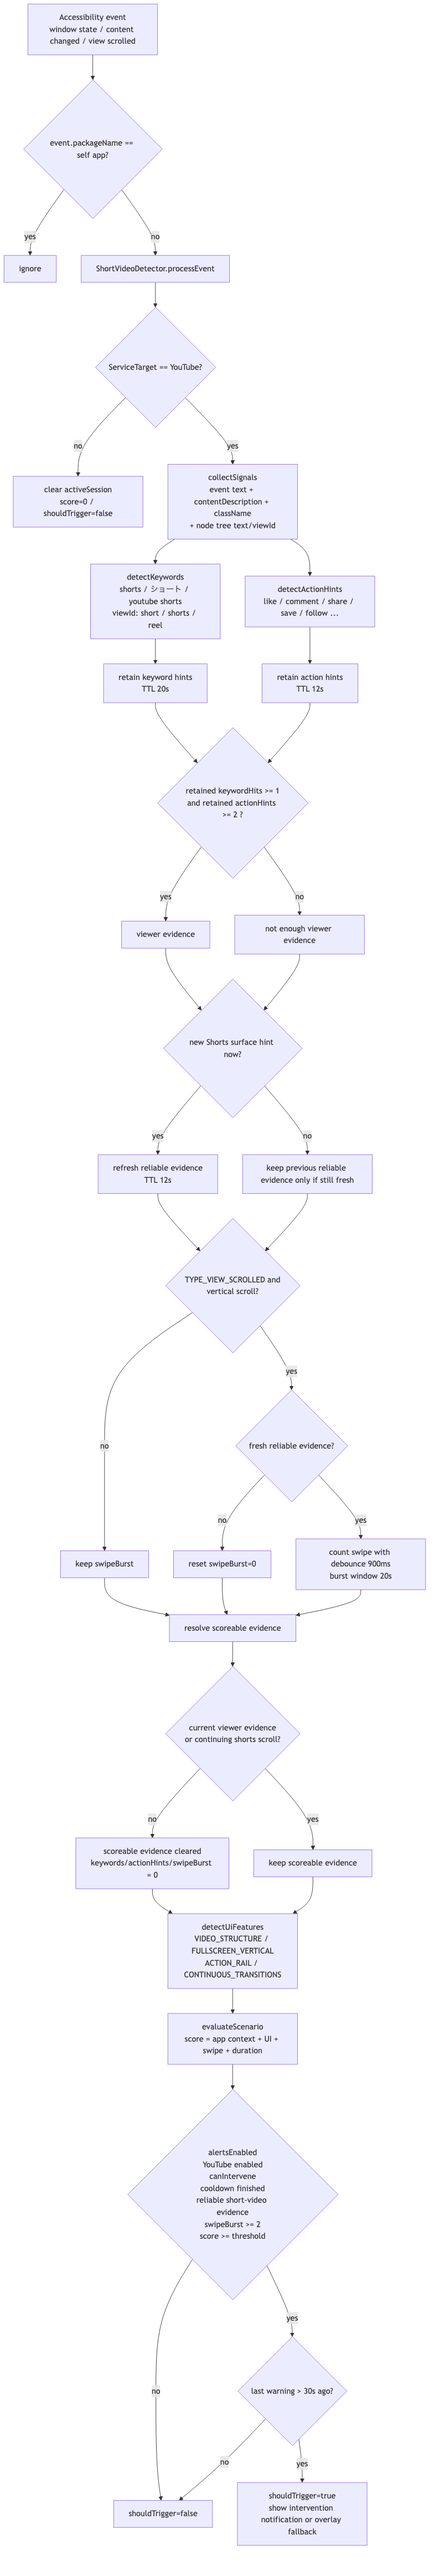
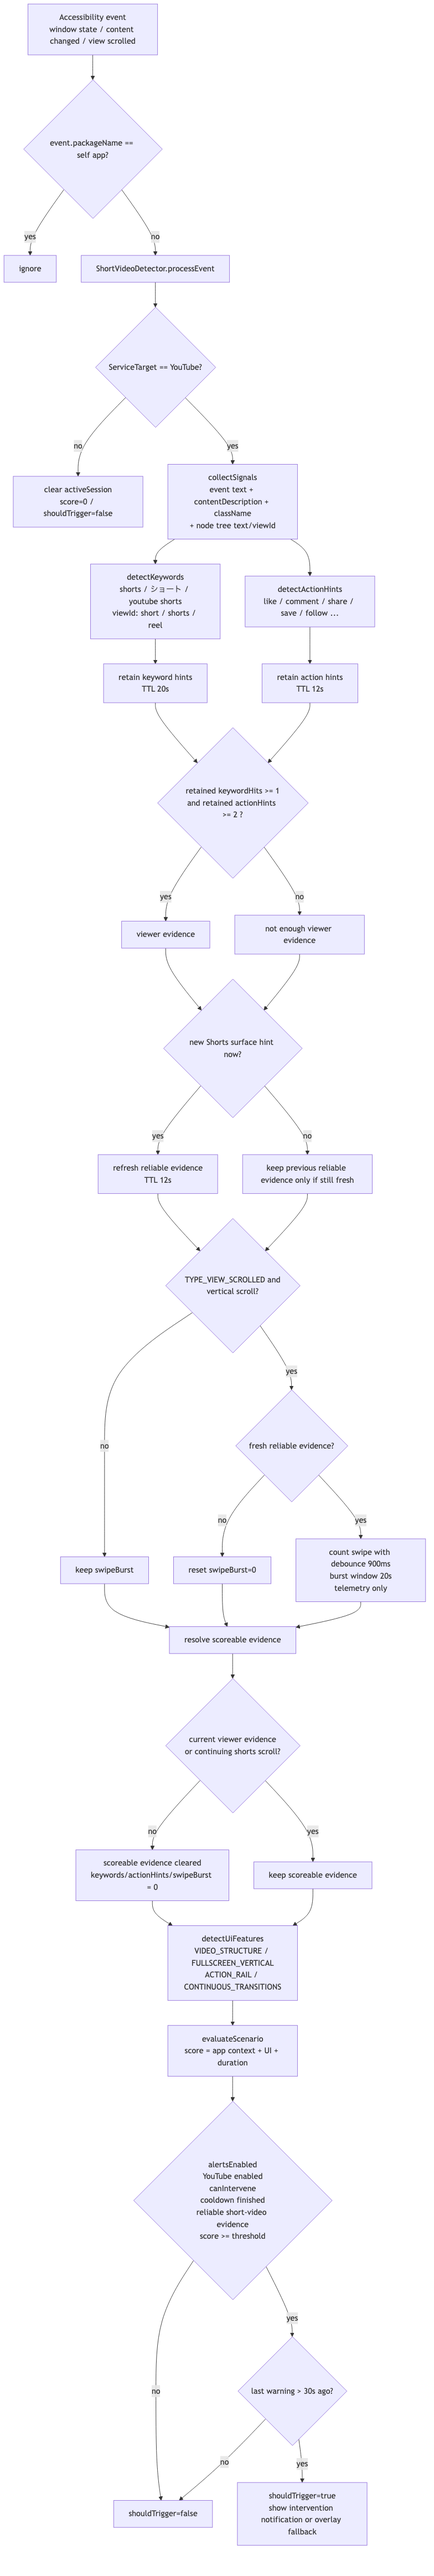
DetectionLogicDiagramを更新し、ShortVideoDetectorのスコア計算からスワイプバーストの依存性を削除。ユニットテストを修正し、短い動画構造がスワイプなしでトリガーされる条件を確認。テストケースの内容を明確化し、関連する条件を整理。

diff --git a/app/src/test/java/dev/shortblocker/app/domain/ShortVideoDetectorTest.kt b/app/src/test/java/dev/shortblocker/app/domain/ShortVideoDetectorTest.kt
@@ -43,7 +43,7 @@ class ShortVideoDetectorTest {
             now = 1_000L,
         )
 
-        assertTrue(decision.snapshot.score >= settings.threshold)
+        assertTrue(decision.snapshot.swipeBurst >= 2)
         assertFalse(decision.shouldTrigger)
     }
 
@@ -70,30 +70,29 @@ class ShortVideoDetectorTest {
             now = 1_000L,
         )
 
-        assertTrue(decision.snapshot.score >= settings.threshold)
+        assertTrue(decision.snapshot.keywordHits.isNotEmpty())
         assertFalse(decision.shouldTrigger)
     }
 
     @Test
-    fun shortVideoStructureDoesNotTriggerBeforeSecondShortsSwipe() {
+    fun shortVideoStructureCanTriggerWithoutShortsSwipeRequirement() {
         val decision = detector.evaluateScenario(
             scenario = DetectionScenario(
                 appName = "YouTube",
                 packageName = ServiceTarget.YOUTUBE.packageName,
                 timeBand = TimeBand.LATE_NIGHT,
-                sessionMinutes = 12,
+                sessionMinutes = 20,
                 relaunchCount = 0,
-                swipeBurst = 1,
-                dwellSeconds = 12,
+                swipeBurst = 0,
+                dwellSeconds = 30,
                 reentryAfterWarning = false,
                 keywords = listOf("Shorts"),
                 uiFeatures = listOf(
                     UiFeature.FULLSCREEN_VERTICAL,
                     UiFeature.ACTION_RAIL,
                     UiFeature.VIDEO_STRUCTURE,
-                    UiFeature.CONTINUOUS_TRANSITIONS,
                 ),
-                note = "Shorts viewer before enough page swipes",
+                note = "Shorts viewer with structural evidence but no swipe dependency",
             ),
             settings = settings,
             cooldownUntilEpochMillis = 0L,
@@ -103,17 +102,17 @@ class ShortVideoDetectorTest {
         )
 
         assertTrue(decision.snapshot.score >= settings.threshold)
-        assertFalse(decision.shouldTrigger)
+        assertTrue(decision.shouldTrigger)
     }
 
     @Test
-    fun shortVideoStructureTriggersAfterSecondShortsSwipe() {
+    fun shortVideoStructureAndRelaunchStillTriggerWithoutSwipeScore() {
         val decision = detector.evaluateScenario(
             scenario = DetectionScenario(
                 appName = "YouTube",
                 packageName = ServiceTarget.YOUTUBE.packageName,
                 timeBand = TimeBand.LATE_NIGHT,
-                sessionMinutes = 4,
+                sessionMinutes = 9,
                 relaunchCount = 2,
                 swipeBurst = 2,
                 dwellSeconds = 12,
@@ -125,7 +124,7 @@ class ShortVideoDetectorTest {
                     UiFeature.VIDEO_STRUCTURE,
                     UiFeature.CONTINUOUS_TRANSITIONS,
                 ),
-                note = "Shorts viewer with action rail and repeated vertical transitions",
+                note = "Shorts viewer with action rail and relaunch context",
             ),
             settings = settings,
             cooldownUntilEpochMillis = 0L,
@@ -334,22 +333,15 @@ class ShortVideoDetectorTest {
             observedEvent(texts = setOf("Shorts", "Like", "Share")),
             settings = settings,
             permissions = permissions,
-            cooldownUntilEpochMillis = base + 30_000L,
+            cooldownUntilEpochMillis = base + 30 * 60_000L,
             now = base,
         )
-        detector.processObservedEvent(
-            observedScrollEvent(now = base + 1_000L),
-            settings = settings,
-            permissions = permissions,
-            cooldownUntilEpochMillis = base + 30_000L,
-            now = base + 1_000L,
-        )
         val decision = detector.processObservedEvent(
-            observedScrollEvent(now = base + 2_500L),
+            observedEvent(texts = setOf("Shorts", "Like", "Share")),
             settings = settings,
             permissions = permissions,
-            cooldownUntilEpochMillis = base + 30_000L,
-            now = base + 2_500L,
+            cooldownUntilEpochMillis = base + 30 * 60_000L,
+            now = base + 20 * 60_000L,
         )!!
 
         assertTrue(decision.snapshot.score >= settings.threshold)
@@ -366,26 +358,19 @@ class ShortVideoDetectorTest {
             cooldownUntilEpochMillis = 0L,
             now = base,
         )
-        detector.processObservedEvent(
-            observedScrollEvent(now = base + 1_000L),
-            settings = settings,
-            permissions = permissions,
-            cooldownUntilEpochMillis = 0L,
-            now = base + 1_000L,
-        )
         val firstTrigger = detector.processObservedEvent(
-            observedScrollEvent(now = base + 2_500L),
+            observedEvent(texts = setOf("Shorts", "Like", "Share")),
             settings = settings,
             permissions = permissions,
             cooldownUntilEpochMillis = 0L,
-            now = base + 2_500L,
+            now = base + 20 * 60_000L,
         )!!
         val secondDecision = detector.processObservedEvent(
-            observedScrollEvent(now = base + 4_000L),
+            observedEvent(texts = setOf("Shorts", "Like", "Share")),
             settings = settings,
             permissions = permissions,
             cooldownUntilEpochMillis = 0L,
-            now = base + 4_000L,
+            now = base + 20 * 60_000L + 1_000L,
         )!!
 
         assertTrue(firstTrigger.shouldTrigger)
@@ -409,19 +394,12 @@ class ShortVideoDetectorTest {
             cooldownUntilEpochMillis = 0L,
             now = base,
         )
-        detector.processObservedEvent(
-            observedScrollEvent(now = base + 1_000L),
-            settings = settings,
-            permissions = limitedPermissions,
-            cooldownUntilEpochMillis = 0L,
-            now = base + 1_000L,
-        )
         val decision = detector.processObservedEvent(
-            observedScrollEvent(now = base + 2_500L),
+            observedEvent(texts = setOf("Shorts", "Like", "Share")),
             settings = settings,
             permissions = limitedPermissions,
             cooldownUntilEpochMillis = 0L,
-            now = base + 2_500L,
+            now = base + 20 * 60_000L,
         )!!
 
         assertTrue(decision.snapshot.score >= settings.threshold)

diff --git a/app/src/main/java/dev/shortblocker/app/domain/ShortVideoDetector.kt b/app/src/main/java/dev/shortblocker/app/domain/ShortVideoDetector.kt
@@ -134,12 +134,7 @@ class ShortVideoDetector {
             scenario.keywords.size * 6 +
                 (if (UiFeature.FULLSCREEN_VERTICAL in scenario.uiFeatures) 8 else 0) +
                 (if (UiFeature.ACTION_RAIL in scenario.uiFeatures) 7 else 0) +
-                (if (UiFeature.VIDEO_STRUCTURE in scenario.uiFeatures) 8 else 0) +
-                (if (UiFeature.CONTINUOUS_TRANSITIONS in scenario.uiFeatures) 6 else 0),
-        )
-        val repeatedVerticalNavigation = min(
-            20,
-            scenario.swipeBurst * 4 + if (scenario.reentryAfterWarning) 4 else 0,
+                (if (UiFeature.VIDEO_STRUCTURE in scenario.uiFeatures) 8 else 0),
         )
         val sessionDuration = min(
             15,
@@ -147,7 +142,7 @@ class ShortVideoDetector {
         )
         val total = min(
             100,
-            targetAppContext + shortsLikeUi + repeatedVerticalNavigation + sessionDuration,
+            targetAppContext + shortsLikeUi + sessionDuration,
         )
         val warningLevel = warningLevelFromScore(total)
         val dialogue = dialogueFor(
@@ -167,12 +162,6 @@ class ShortVideoDetector {
                 value = shortsLikeUi,
                 max = 35,
                 detail = "キーワード ${scenario.keywords.size}件 / UI特徴 ${scenario.uiFeatures.size}件",
-            ),
-            DetectionBreakdown(
-                label = "Repeated Vertical Navigation",
-                value = repeatedVerticalNavigation,
-                max = 20,
-                detail = "縦スワイプ ${scenario.swipeBurst}回 / 警告後再突入 ${if (scenario.reentryAfterWarning) "あり" else "なし"}",
             ),
             DetectionBreakdown(
                 label = "Session Duration",
@@ -199,13 +188,11 @@ class ShortVideoDetector {
         )
         val permissionsReady = !requirePermissions || permissions.canIntervene
         val reliableShortVideoEvidence = hasReliableShortVideoEvidence(scenario)
-        val interactionEvidence = scenario.swipeBurst >= REQUIRED_SHORTS_SWIPES
         val shouldTrigger = settings.alertsEnabled &&
             youtubeRuntimeTarget &&
             permissionsReady &&
             now >= cooldownUntilEpochMillis &&
             reliableShortVideoEvidence &&
-            interactionEvidence &&
             total >= settings.threshold
 
         return DetectionDecision(snapshot = snapshot, shouldTrigger = shouldTrigger)
@@ -518,7 +505,7 @@ class ShortVideoDetector {
         val hasRepeatedVerticalNavigation = swipeBurst >= REQUIRED_SHORTS_SWIPES
         val hasShortVideoStructure = target == ServiceTarget.YOUTUBE &&
             hasShortSurfaceHint &&
-            (hasActionRail || hasRepeatedVerticalNavigation)
+            hasActionRail
 
         return buildList {
             if (hasShortVideoStructure) {
@@ -527,7 +514,7 @@ class ShortVideoDetector {
             if (hasShortVideoStructure && hasActionRail) {
                 add(UiFeature.FULLSCREEN_VERTICAL)
             }
-            if (hasActionRail && (hasShortSurfaceHint || hasRepeatedVerticalNavigation)) {
+            if (hasActionRail && hasShortSurfaceHint) {
                 add(UiFeature.ACTION_RAIL)
             }
             if (hasRepeatedVerticalNavigation && (hasShortSurfaceHint || hasActionRail)) {

diff --git a/DetectionLogicDiagram.md b/DetectionLogicDiagram.md
@@ -35,7 +35,7 @@ flowchart TD
     Q -- no --> R[keep swipeBurst]
     Q -- yes --> S{fresh reliable evidence?}
     S -- no --> T[reset swipeBurst=0]
-    S -- yes --> U[count swipe with debounce 900ms<br/>burst window 20s]
+    S -- yes --> U[count swipe with debounce 900ms<br/>burst window 20s<br/>telemetry only]
 
     R --> V[resolve scoreable evidence]
     T --> V
@@ -48,8 +48,8 @@ flowchart TD
     X --> Z[detectUiFeatures]
     Y --> Z[detectUiFeatures<br/>VIDEO_STRUCTURE / FULLSCREEN_VERTICAL<br/>ACTION_RAIL / CONTINUOUS_TRANSITIONS]
 
-    Z --> AA[evaluateScenario<br/>score = app context + UI + swipe + duration]
-    AA --> AB{alertsEnabled<br/>YouTube enabled<br/>canIntervene<br/>cooldown finished<br/>reliable short-video evidence<br/>swipeBurst >= 2<br/>score >= threshold}
+    Z --> AA[evaluateScenario<br/>score = app context + UI + duration]
+    AA --> AB{alertsEnabled<br/>YouTube enabled<br/>canIntervene<br/>cooldown finished<br/>reliable short-video evidence<br/>score >= threshold}
 
     AB -- no --> Z2[shouldTrigger=false]
     AB -- yes --> AC{last warning > 30s ago?}
@@ -62,7 +62,7 @@ flowchart TD
 | Item | Current value | Meaning |
 | --- | --- | --- |
 | `threshold` | `62` | 通知候補になるスコア閾値 |
-| `REQUIRED_SHORTS_SWIPES` | `2` | 発火に必要な Shorts 縦スワイプ数 |
+| `REQUIRED_SHORTS_SWIPES` | `2` | `CONTINUOUS_TRANSITIONS` 表示用の目安 |
 | `MIN_ACTION_RAIL_HINTS` | `2` | viewer evidence に必要な action hint 数 |
 | `SHORTS_KEYWORD_TTL_MS` | `20_000` | Shorts surface hint の保持時間 |
 | `SHORTS_ACTION_HINT_TTL_MS` | `12_000` | action hint の保持時間 |
@@ -78,4 +78,5 @@ flowchart TD
 - 時間帯は `timeBand` として保持されますが、スコア加点には使っていません。
 - `keyword` と `action hint` は別 TTL で保持し、信頼証拠の更新は新しい Shorts surface hint を見た時だけ行います。
 - `Usage Stats` と通知権限は監視表示には残りますが、発火可否の必須条件からは外しています。
+- `swipeBurst` はログと `CONTINUOUS_TRANSITIONS` の補助指標として残していますが、通知発火条件とスコア計算には使っていません。
 - UI 上の「介入候補」は `score >= threshold` で出ますが、通知発火はそれより厳しい条件です。
